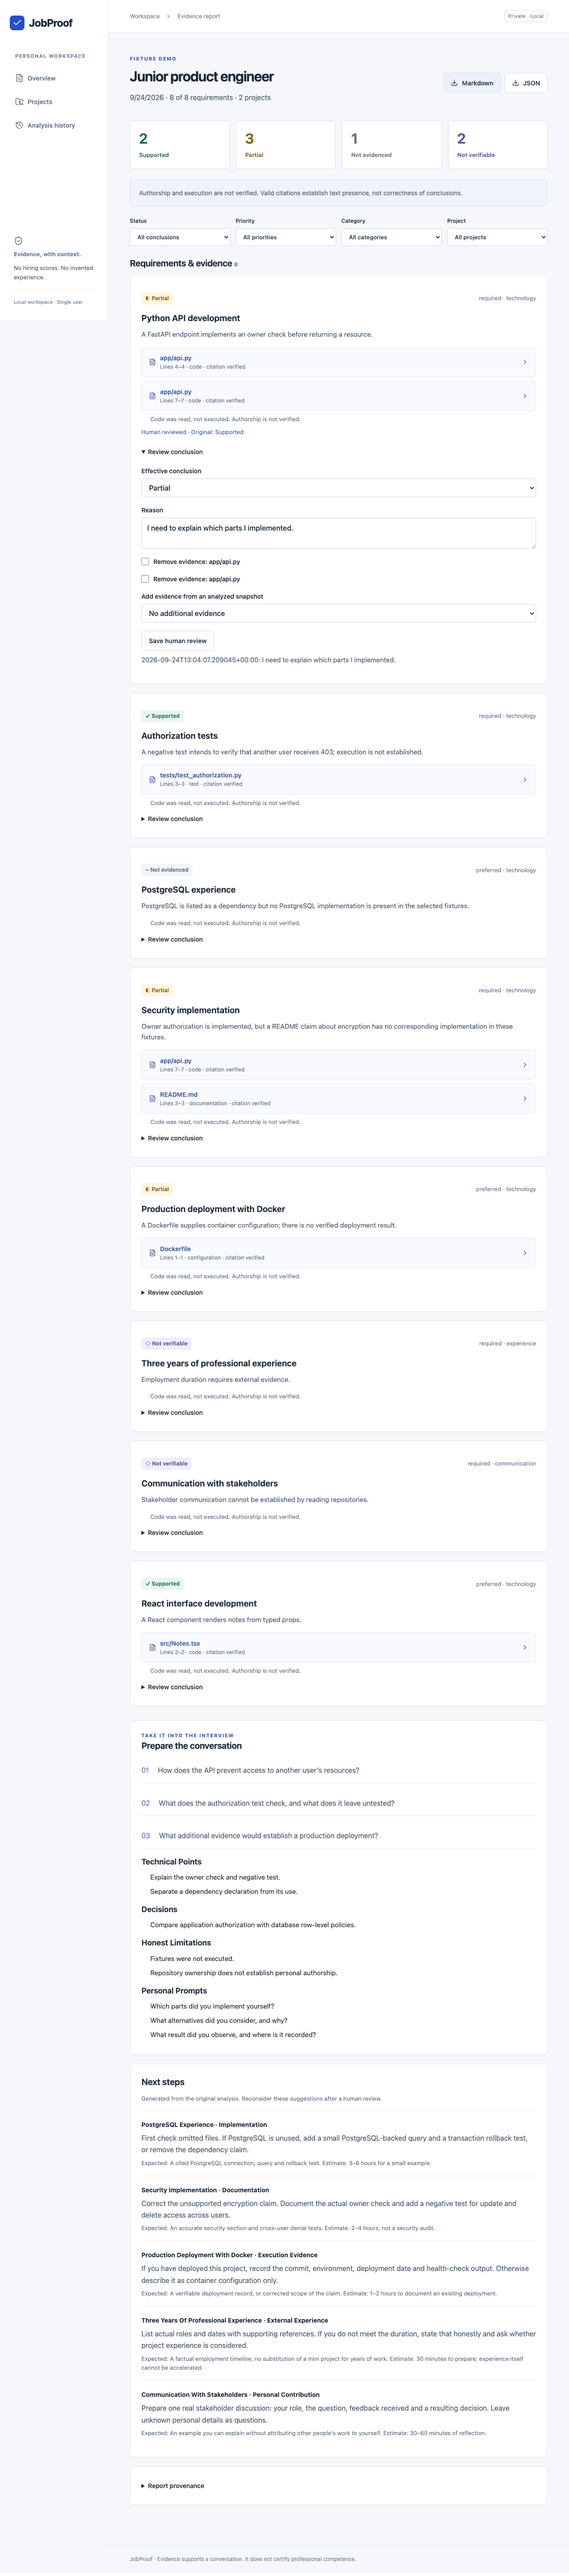
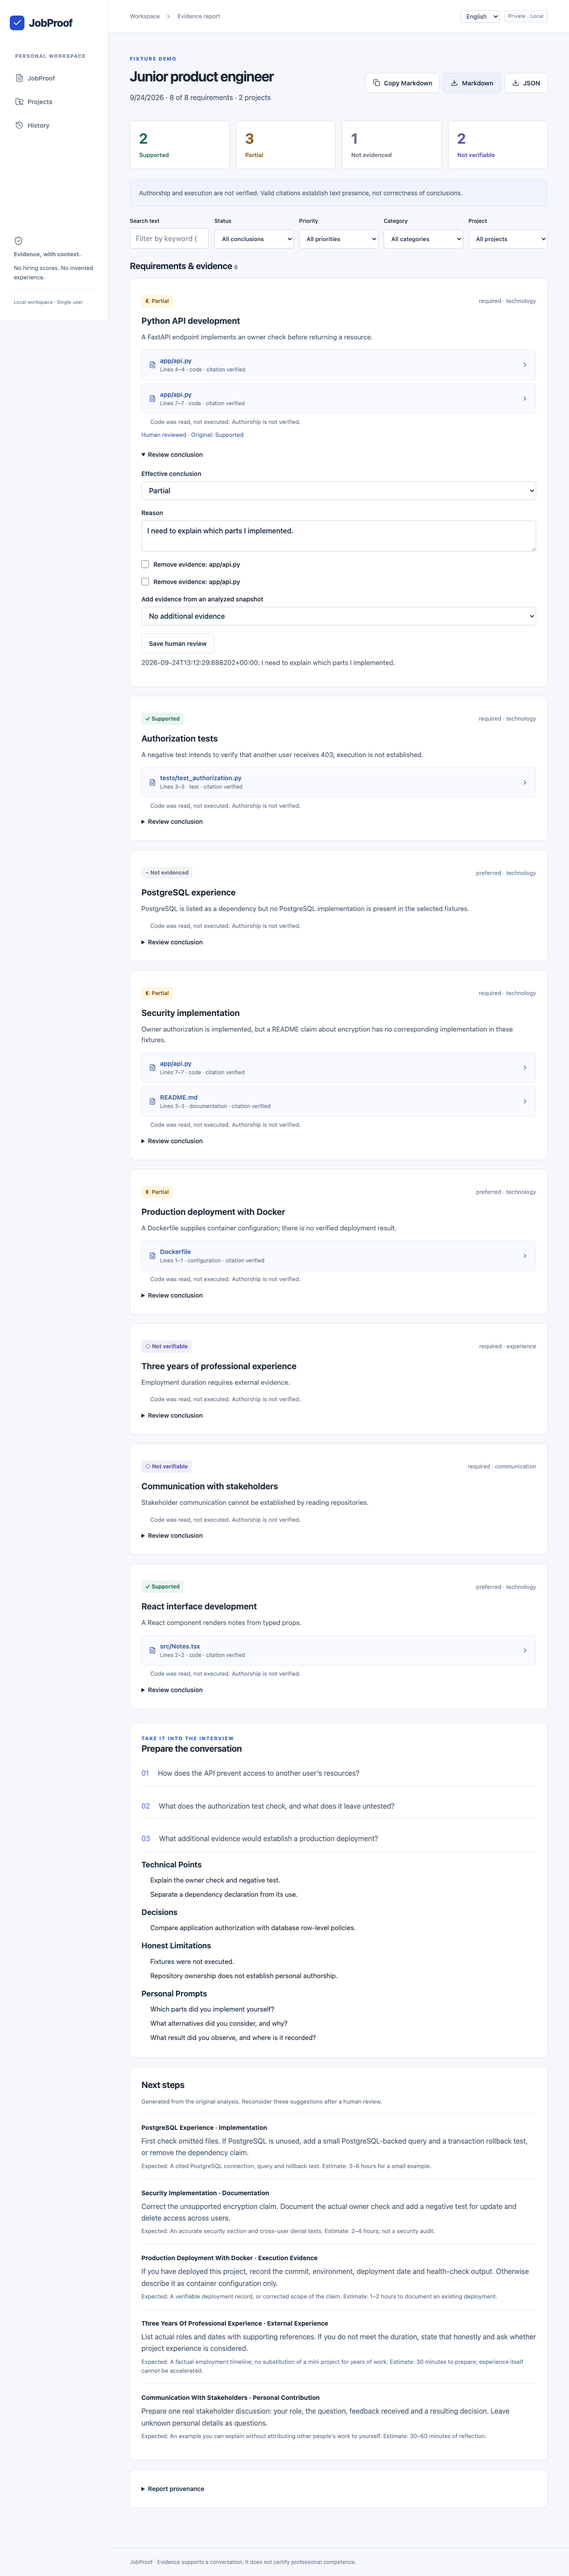
feat: add multilingual UI (Catalan/English/Spanish), quick markdown clipboard copy, in-report text search and Catalan posting fixture

diff --git a/frontend/src/i18n.ts b/frontend/src/i18n.ts
@@ -1,0 +1,195 @@
+export type Lang = "ca" | "en" | "es";
+
+export interface Translations {
+  brand: string;
+  tagline: string;
+  subtitle: string;
+  navProjects: string;
+  navHistory: string;
+  navNewAnalysis: string;
+  tryDemo: string;
+  demoBadge: string;
+  demoTitle: string;
+  demoDesc: string;
+  aiConfigured: string;
+  aiNotConfigured: string;
+  allConclusions: string;
+  allPriorities: string;
+  allCategories: string;
+  allProjects: string;
+  searchFilter: string;
+  searchPlaceholder: string;
+  statusSupported: string;
+  statusPartial: string;
+  statusNotEvidenced: string;
+  statusNotVerifiable: string;
+  copyMarkdown: string;
+  copied: string;
+  markdown: string;
+  json: string;
+  evidenceReport: string;
+  fixtureDemo: string;
+  reviewConclusion: string;
+  saveReview: string;
+  effectiveConclusion: string;
+  reasonLabel: string;
+  reasonPlaceholder: string;
+  interviewPrepTitle: string;
+  interviewQuestions: string;
+  technicalPoints: string;
+  actionableRecommendations: string;
+  honestLimitations: string;
+  personalPrompts: string;
+  citations: string;
+  lines: string;
+  openGithubCommit: string;
+  closeEvidence: string;
+  exactCitationVerified: string;
+}
+
+export const translations: Record<Lang, Translations> = {
+  ca: {
+    brand: "JobProof",
+    tagline: "Fes que la teva experiència sigui explicable.",
+    subtitle:
+      "Connecta els requisits d'una oferta amb evidències als teus projectes. Descobreix què pots demostrar i què necessita una conversa honesta.",
+    navProjects: "Projectes",
+    navHistory: "Historial",
+    navNewAnalysis: "Nova anàlisi",
+    tryDemo: "Provar demo de fixtures",
+    demoBadge: "SENSE CONFIGURACIÓ",
+    demoTitle: "Mira com són les evidències reals.",
+    demoDesc:
+      "Explora dos projectes ficticis i una oferta de feina. Inclou coincidències clares, mancances i afirmacions que el codi no pot demostrar.",
+    aiConfigured: "Proveïdor d'IA configurat",
+    aiNotConfigured: "L'anàlisi real necessita una clau de Gemini o Anthropic al servidor.",
+    allConclusions: "Totes les conclusions",
+    allPriorities: "Totes les prioritats",
+    allCategories: "Totes les categories",
+    allProjects: "Tots els projectes",
+    searchFilter: "Cercar text",
+    searchPlaceholder: "Filtra per paraula clau o tecnologia (ex: python, docker)...",
+    statusSupported: "Demostrat",
+    statusPartial: "Parcial",
+    statusNotEvidenced: "Sense evidència",
+    statusNotVerifiable: "No verificable per codi",
+    copyMarkdown: "Copiar Markdown",
+    copied: "Copiat!",
+    markdown: "Descarregar Markdown",
+    json: "Descarregar JSON",
+    evidenceReport: "INFORME D'EVIDÈNCIES",
+    fixtureDemo: "DEMO DE FIXTURES",
+    reviewConclusion: "Revisar conclusió",
+    saveReview: "Desar revisió humana",
+    effectiveConclusion: "Conclusió efectiva",
+    reasonLabel: "Motiu de la revisió",
+    reasonPlaceholder: "Explica per què canvies aquesta conclusió...",
+    interviewPrepTitle: "Preparació de l'entrevista",
+    interviewQuestions: "Preguntes tècniques que et poden fer",
+    technicalPoints: "Punts clau que hauries de saber explicar",
+    actionableRecommendations: "Recomanacions de millora",
+    honestLimitations: "Limitacions per comentar honestament",
+    personalPrompts: "Preguntes per concretar la teva aportació",
+    citations: "Cites d'evidència",
+    lines: "línies",
+    openGithubCommit: "Obrir commit fixat a GitHub",
+    closeEvidence: "Tancar evidència",
+    exactCitationVerified: "Cita exacta verificada",
+  },
+  en: {
+    brand: "JobProof",
+    tagline: "Make your experience explainable.",
+    subtitle:
+      "Connect a job’s requirements to evidence in your projects. Know what you can support, and what needs an honest conversation.",
+    navProjects: "Projects",
+    navHistory: "History",
+    navNewAnalysis: "New analysis",
+    tryDemo: "Try fixture demo",
+    demoBadge: "NO SETUP NEEDED",
+    demoTitle: "See what evidence looks like.",
+    demoDesc:
+      "Explore two fictional projects and a job posting. Includes clear matches, gaps, and claims that code cannot prove.",
+    aiConfigured: "AI provider configured",
+    aiNotConfigured: "Real analysis needs an Anthropic or Gemini API key on the server.",
+    allConclusions: "All conclusions",
+    allPriorities: "All priorities",
+    allCategories: "All categories",
+    allProjects: "All projects",
+    searchFilter: "Search text",
+    searchPlaceholder: "Filter by keyword (e.g. python, docker)...",
+    statusSupported: "Supported",
+    statusPartial: "Partial",
+    statusNotEvidenced: "Not evidenced",
+    statusNotVerifiable: "Not verifiable from code",
+    copyMarkdown: "Copy Markdown",
+    copied: "Copied!",
+    markdown: "Download Markdown",
+    json: "Download JSON",
+    evidenceReport: "EVIDENCE REPORT",
+    fixtureDemo: "FIXTURE DEMO",
+    reviewConclusion: "Review conclusion",
+    saveReview: "Save human review",
+    effectiveConclusion: "Effective conclusion",
+    reasonLabel: "Reason",
+    reasonPlaceholder: "Explain why you are changing this conclusion...",
+    interviewPrepTitle: "Interview preparation",
+    interviewQuestions: "Questions you should expect",
+    technicalPoints: "Technical points to explain",
+    actionableRecommendations: "Actionable recommendations",
+    honestLimitations: "Honest limitations to state",
+    personalPrompts: "Prompts to complete personal details",
+    citations: "Evidence citations",
+    lines: "lines",
+    openGithubCommit: "Open fixed GitHub commit",
+    closeEvidence: "Close evidence",
+    exactCitationVerified: "Exact citation verified",
+  },
+  es: {
+    brand: "JobProof",
+    tagline: "Haz que tu experiencia sea explicable.",
+    subtitle:
+      "Conecta los requisitos de una oferta con evidencias en tus proyectos. Descubre qué puedes demostrar y qué necesita una conversación honesta.",
+    navProjects: "Proyectos",
+    navHistory: "Historial",
+    navNewAnalysis: "Nuevo análisis",
+    tryDemo: "Probar demo de fixtures",
+    demoBadge: "SIN CONFIGURACIÓN",
+    demoTitle: "Mira cómo son las evidencias reales.",
+    demoDesc:
+      "Explora dos proyectos ficticios y una oferta de empleo. Incluye coincidencias claras, carencias y afirmaciones que el código no puede demostrar.",
+    aiConfigured: "Proveedor de IA configurado",
+    aiNotConfigured: "El análisis real necesita una clave de Gemini o Anthropic en el servidor.",
+    allConclusions: "Todas las conclusiones",
+    allPriorities: "Todas las prioridades",
+    allCategories: "Todas las categorías",
+    allProjects: "Todos los proyectos",
+    searchFilter: "Buscar texto",
+    searchPlaceholder: "Filtrar por palabra clave o tecnología (ej: python, docker)...",
+    statusSupported: "Demostrado",
+    statusPartial: "Parcial",
+    statusNotEvidenced: "Sin evidencia",
+    statusNotVerifiable: "No verificable por código",
+    copyMarkdown: "Copiar Markdown",
+    copied: "¡Copiado!",
+    markdown: "Descargar Markdown",
+    json: "Descargar JSON",
+    evidenceReport: "INFORME DE EVIDENCIAS",
+    fixtureDemo: "DEMO DE FIXTURES",
+    reviewConclusion: "Revisar conclusión",
+    saveReview: "Guardar revisión humana",
+    effectiveConclusion: "Conclusión efectiva",
+    reasonLabel: "Motivo de la revisión",
+    reasonPlaceholder: "Explica por qué cambias esta conclusión...",
+    interviewPrepTitle: "Preparación de la entrevista",
+    interviewQuestions: "Preguntas técnicas que te pueden hacer",
+    technicalPoints: "Puntos clave que deberías saber explicar",
+    actionableRecommendations: "Recomendaciones de mejora",
+    honestLimitations: "Limitaciones para comentar honestamente",
+    personalPrompts: "Preguntas para concretar tu aportación",
+    citations: "Citas de evidencia",
+    lines: "líneas",
+    openGithubCommit: "Abrir commit fijado en GitHub",
+    closeEvidence: "Cerrar evidencia",
+    exactCitationVerified: "Cita exacta verificada",
+  },
+};

diff --git a/frontend/src/main.tsx b/frontend/src/main.tsx
@@ -18,7 +18,9 @@ import {
   ShieldCheck,
   Search,
   Download,
+  Copy,
 } from "lucide-react";
+import { translations, type Lang } from "./i18n";
 import { one, many, request, labels, counts } from "./api";
 import type {
   Analysis,
@@ -53,7 +55,13 @@ function App() {
     [filter, setFilter] = useState("all"),
     [priority, setPriority] = useState("all"),
     [category, setCategory] = useState("all"),
-    [projectFilter, setProjectFilter] = useState("all");
+    [projectFilter, setProjectFilter] = useState("all"),
+    [searchQuery, setSearchQuery] = useState(""),
+    [copied, setCopied] = useState(false),
+    [lang, setLang] = useState<Lang>(
+      (localStorage.getItem("jobproof-lang") as Lang) || "en",
+    );
+  const t = translations[lang];
   const taskHandled = useRef("");
   const health = useQuery({
     queryKey: ["health"],
@@ -191,7 +199,15 @@ function App() {
       (priority === "all" || a.requirement.priority === priority) &&
       (category === "all" || a.requirement.category === category) &&
       (projectFilter === "all" ||
-        a.evidence.some((e) => e.snapshot_id === projectFilter)),
+        a.evidence.some((e) => e.snapshot_id === projectFilter)) &&
+      (!searchQuery.trim() ||
+        a.requirement.text.toLowerCase().includes(searchQuery.toLowerCase()) ||
+        a.explanation.toLowerCase().includes(searchQuery.toLowerCase()) ||
+        a.evidence.some(
+          (e) =>
+            e.quote.toLowerCase().includes(searchQuery.toLowerCase()) ||
+            e.path.toLowerCase().includes(searchQuery.toLowerCase()),
+        )),
   );
   return (
     <div className="app">
@@ -205,9 +221,9 @@ function App() {
         <div className="workspace-label">PERSONAL WORKSPACE</div>
         <nav>
           {[
-            ["home", "Overview", FileText],
-            ["projects", "Projects", FolderGit2],
-            ["history", "Analysis history", History],
+            ["home", t.brand, FileText],
+            ["projects", t.navProjects, FolderGit2],
+            ["history", t.navHistory, History],
           ].map(([id, title, Icon]) => (
             <button
               key={String(id)}
@@ -236,7 +252,23 @@ function App() {
                 ? "New analysis"
                 : page.charAt(0).toUpperCase() + page.slice(1)}
           </span>
-          <span className="pill">Private · Local</span>
+          <div style={{ display: "flex", alignItems: "center", gap: "10px" }}>
+            <select
+              aria-label="Language selector"
+              value={lang}
+              onChange={(e) => {
+                const l = e.target.value as Lang;
+                setLang(l);
+                localStorage.setItem("jobproof-lang", l);
+              }}
+              style={{ width: "auto", padding: "4px 8px", fontSize: "0.85rem" }}
+            >
+              <option value="en">English</option>
+              <option value="ca">Català</option>
+              <option value="es">Español</option>
+            </select>
+            <span className="pill">Private · Local</span>
+          </div>
         </header>
         <main>
           {error && (
@@ -256,8 +288,8 @@ function App() {
           {page === "home" && (
             <>
               <div className="eyebrow">YOUR WORK. YOUR EVIDENCE.</div>
-              <h1>{copy.tagline}</h1>
-              <p className="intro">{copy.subtitle}</p>
+              <h1>{t.tagline}</h1>
+              <p className="intro">{t.subtitle}</p>
               <div className="home-grid">
                 <section className="card start">
                   <span className="icon-box">
@@ -276,23 +308,20 @@ function App() {
                       setPage("job");
                     }}
                   >
-                    New analysis <ArrowRight size={17} />
+                    {t.navNewAnalysis} <ArrowRight size={17} />
                   </button>
                   <div className="quiet">
                     {health.data?.real_provider_configured
-                      ? "AI provider configured"
-                      : "Real analysis needs an Anthropic or Gemini API key on the server."}
+                      ? t.aiConfigured
+                      : t.aiNotConfigured}
                   </div>
                 </section>
                 <section className="card demo-card">
-                  <span className="pill">NO SETUP NEEDED</span>
-                  <h2>See what evidence looks like.</h2>
-                  <p>
-                    Explore two fictional projects and a job posting. Includes
-                    clear matches, gaps, and claims that code cannot prove.
-                  </p>
+                  <span className="pill">{t.demoBadge}</span>
+                  <h2>{t.demoTitle}</h2>
+                  <p>{t.demoDesc}</p>
                   <button disabled={busy} onClick={() => act(demo)}>
-                    Try fixture demo <ArrowRight size={17} />
+                    {t.tryDemo} <ArrowRight size={17} />
                   </button>
                   <small>Deterministic fixtures · No external calls</small>
                 </section>
@@ -800,6 +829,25 @@ function App() {
                   </p>
                 </div>
                 <div className="exports">
+                  <button
+                    className="button"
+                    onClick={async () => {
+                      try {
+                        const res = await fetch(
+                          `/api/v1/analyses/${reportId}/export?format=markdown`,
+                        );
+                        const text = await res.text();
+                        await navigator.clipboard.writeText(text);
+                        setCopied(true);
+                        setTimeout(() => setCopied(false), 2000);
+                      } catch {
+                        // ignore
+                      }
+                    }}
+                  >
+                    {copied ? <Check size={16} /> : <Copy size={16} />}
+                    {copied ? t.copied : t.copyMarkdown}
+                  </button>
                   {["markdown", "json"].map((f) => (
                     <a
                       className="button"
@@ -837,6 +885,15 @@ function App() {
                     ))}
                   </div>
                   <div className="filters">
+                    <label style={{ gridColumn: "1 / -1" }}>
+                      {t.searchFilter}
+                      <input
+                        type="search"
+                        placeholder={t.searchPlaceholder}
+                        value={searchQuery}
+                        onChange={(e) => setSearchQuery(e.target.value)}
+                      />
+                    </label>
                     <label>
                       Status
                       <select
